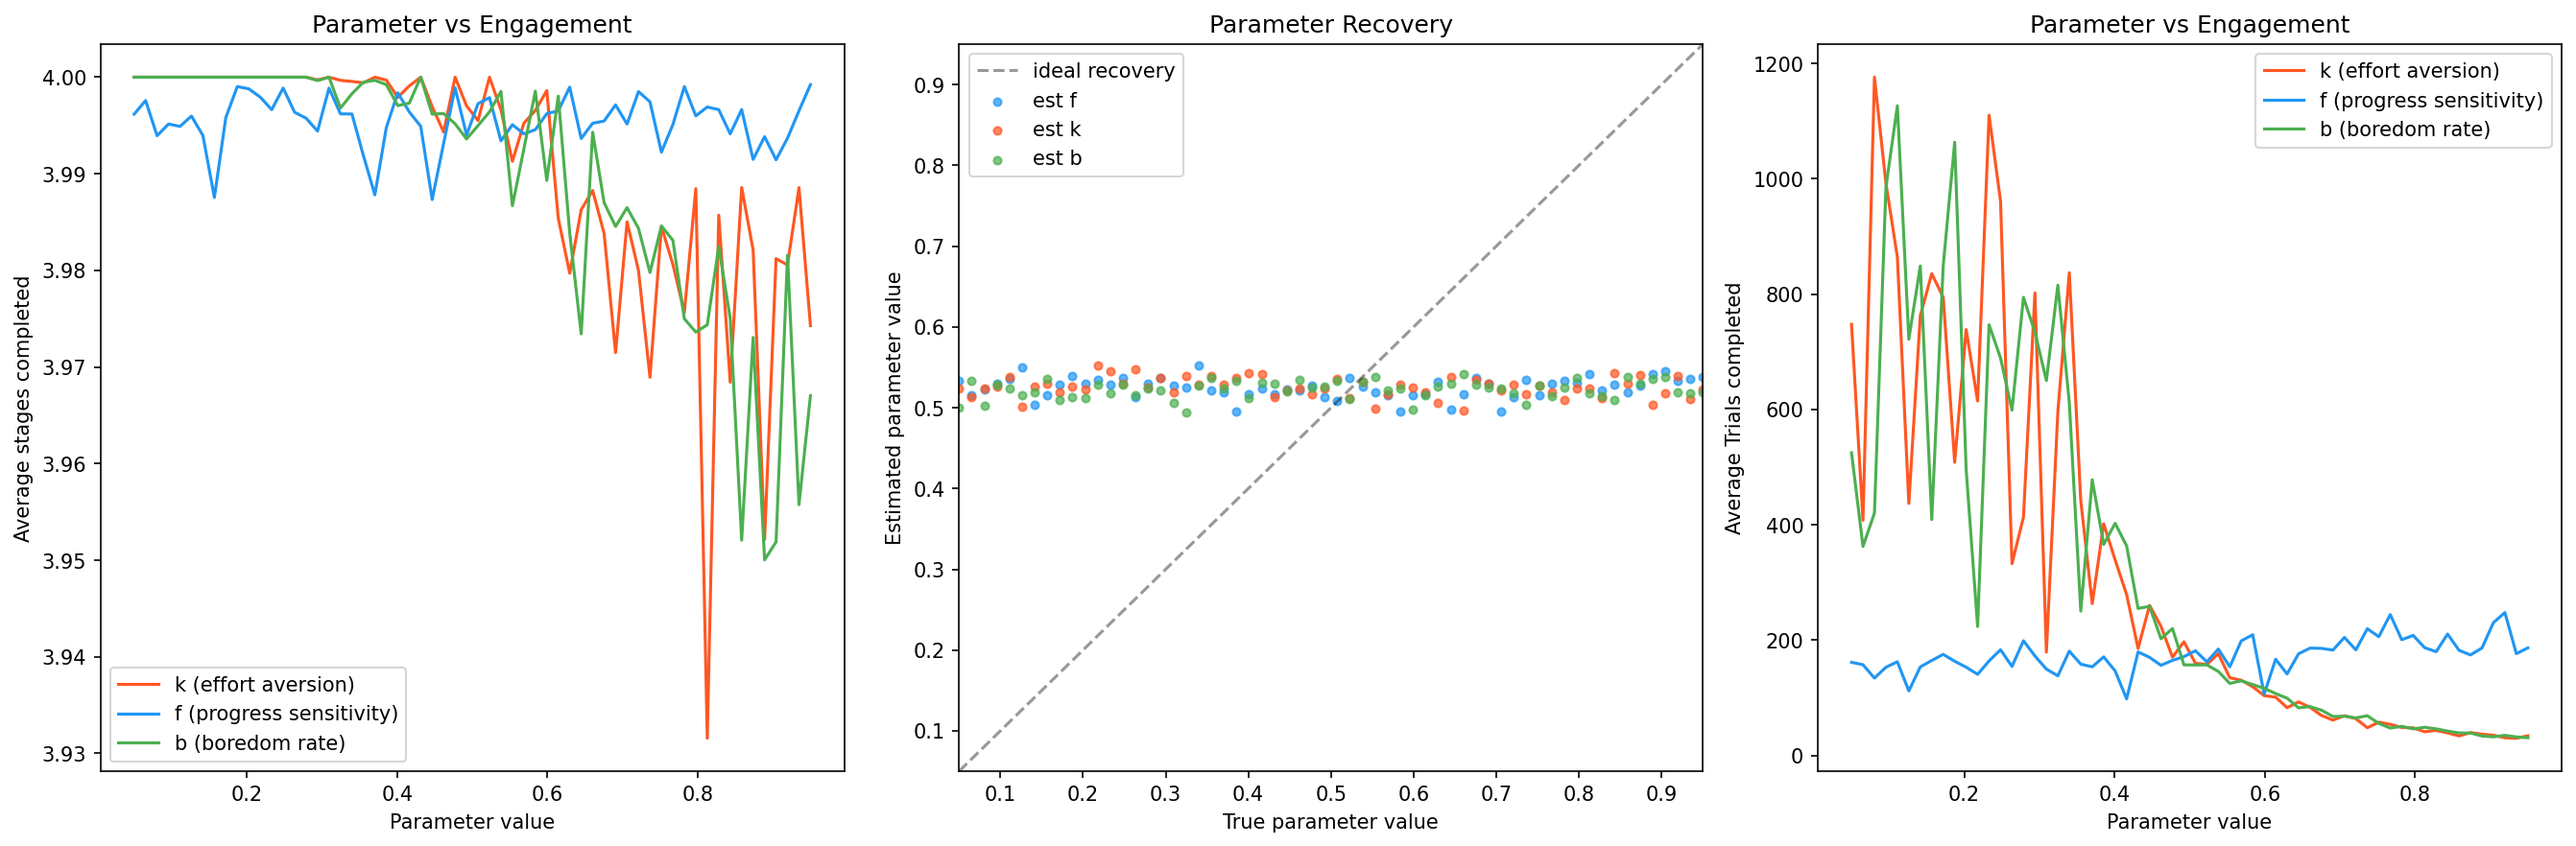
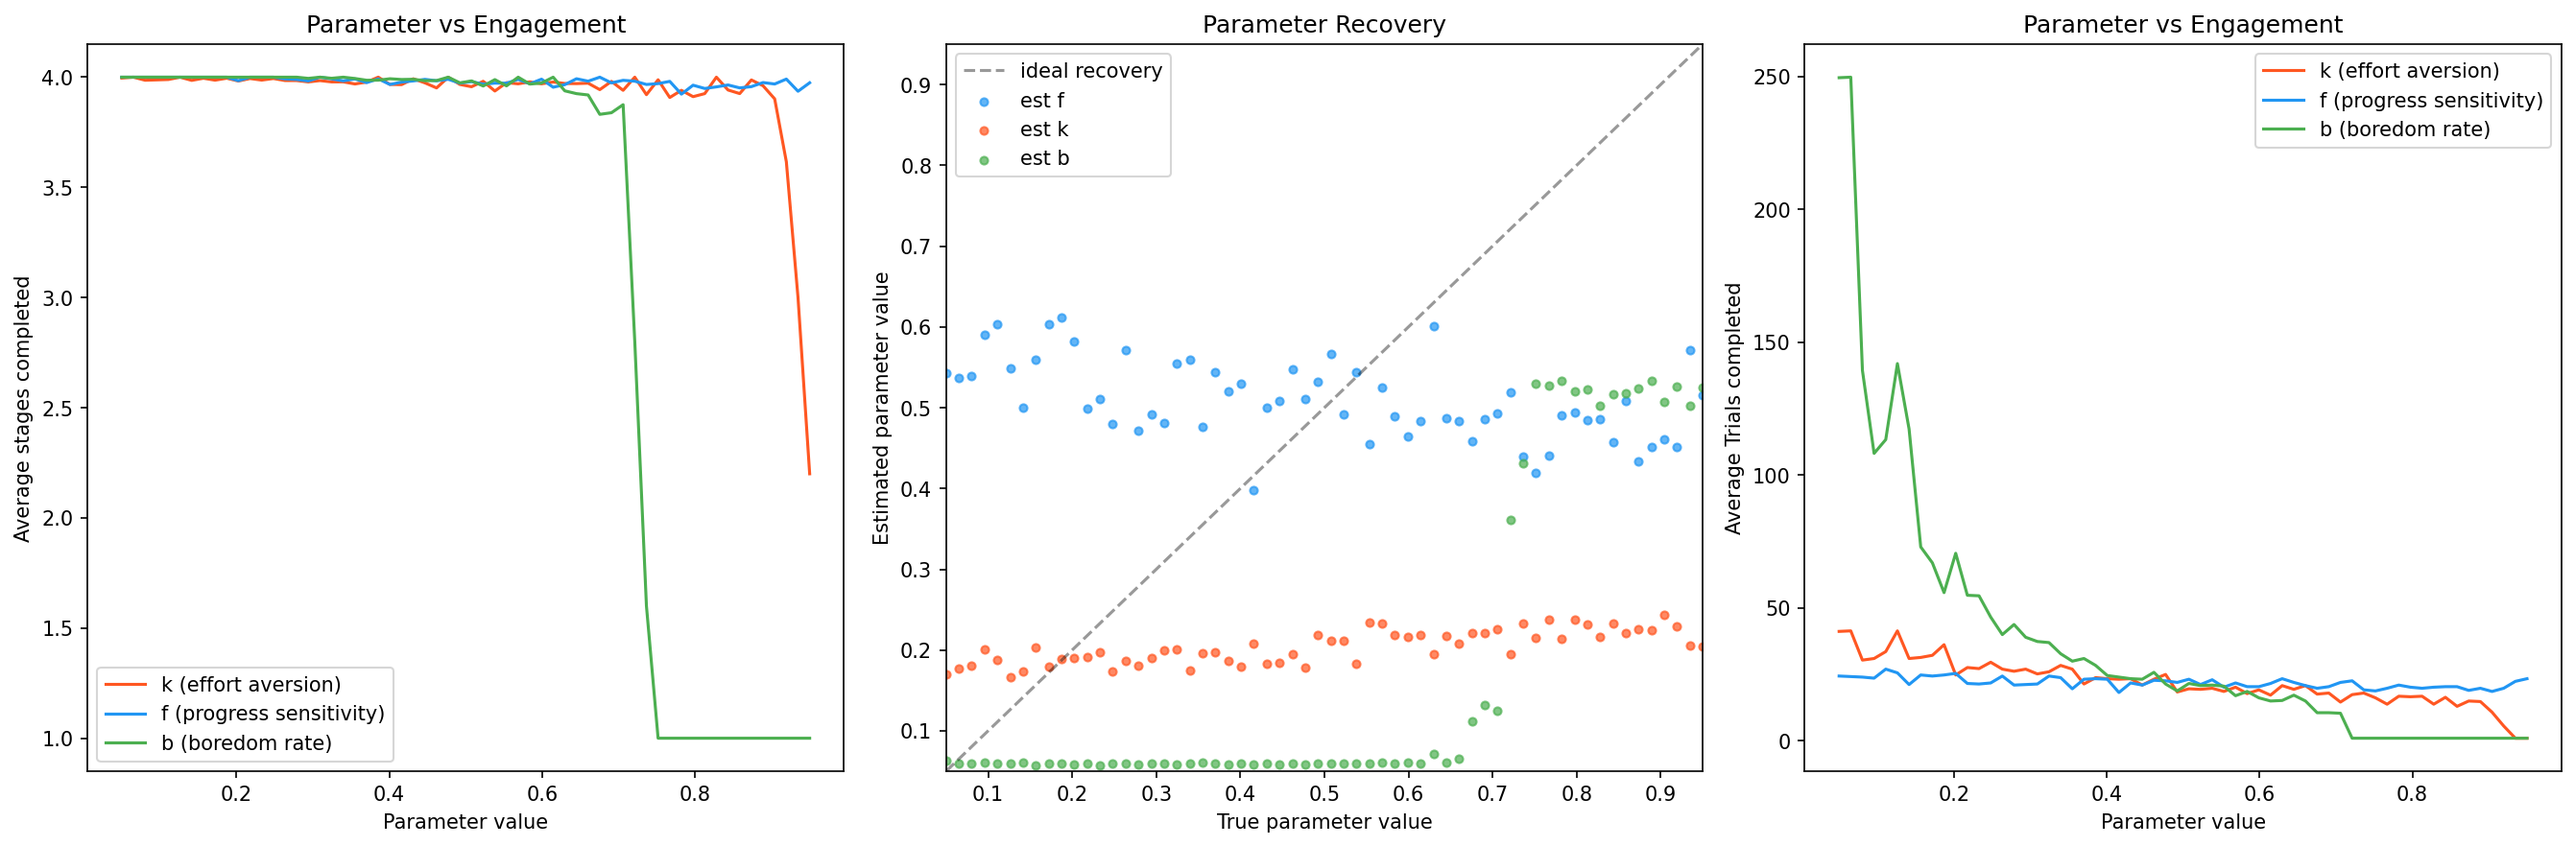
basic particle filter integration. Inference problem.

diff --git a/main.py b/main.py
@@ -5,8 +5,10 @@
 # Functions: 1: Particle Filter(no value arg), 2: Single DDM(Weiner process), 3: terminal stats for one run, 4: Multiple DDMs(no value arg)
 # main.py --function 2 --value 0.1,0.1,0.1
 
+import math
 import numpy as np
 import matplotlib.pyplot as plt
+from mpl_toolkits.mplot3d import Axes3D
 from dataclasses import asdict
 from temporal_difference_model import test_train
 import argparse
@@ -98,17 +100,29 @@ def plot_results(results):
     plt.savefig('engagement_by_params.png', dpi=150, bbox_inches='tight')
     plt.show()
 
-def plotweiner(f,k,b):
-    fixed, log, t = test_train(f,k,b, debug=False, extra=True)
-    x = [ep['dt'] for ep in log]
-    y = [ep['position'] for ep in log]
-    plt.plot(x,y,color='#FF5722')
+def plotweiner(f, k, b):
+    fixed, log, t = test_train(f, k, b, debug=False, extra = 1)
+    boundary = (1 - fixed.b) * 4
+
+    x_traj = [ep['dt'] for ep in log]
+    y_traj = [ep['position'] for ep in log]
     
-    plt.axhline(y=1/fixed.k, color="#000000", linestyle='-', linewidth=2,alpha=1)
-    plt.xlabel("time")
-    plt.ylabel("position")
-    params = {k: round(v, 2) for k, v in asdict(fixed).items()}
-    plt.title(f"scatter for {t} trials\nTrue Params: {params}")
+    avg_delta = np.mean([ep['delta'] for ep in log])
+    sigma_ddm = 0.1
+
+    params_str = {pk: round(pv, 2) for pk, pv in asdict(fixed).items()}
+    fig = plt.figure(figsize=(14, 6))
+    fig.suptitle(f"True Params: {params_str}  |  {t} trials")
+
+    ax1 = fig.add_subplot(1, 2, 1)
+    ax1.plot(x_traj, y_traj, color='#FF5722', linewidth=0.6, alpha=0.7)
+    ax1.axhline(y=boundary, color='k', linewidth=2, label='boundary)')
+    ax1.set_xlabel("time")
+    ax1.set_ylabel("position")
+    ax1.set_title("Wiener process")
+    ax1.legend()
+
+    plt.tight_layout()
     plt.show()
 def multiweiner(repeats=10):
     values = [0.1, 0.5, 0.9]
@@ -119,18 +133,17 @@ def multiweiner(repeats=10):
     _, axes = plt.subplots(1, 3, figsize=(18, 6))
 
     for ax, (param_label, run_fn) in zip(axes, [
-        ('f', lambda v: test_train(v, fixed, fixed, extra=True)),
-        ('k', lambda v: test_train(fixed, v, fixed, extra=True)),
-        ('b', lambda v: test_train(fixed, fixed, v, extra=True)),
+        ('f', lambda v: test_train(v, fixed, fixed, extra = 1)),
+        ('k', lambda v: test_train(fixed, v, fixed, extra = 1)),
+        ('b', lambda v: test_train(fixed, fixed, v, extra = 1)),
     ]):
         drawn_labels = set()
         for val, color in zip(values, colors):
             for _ in range(repeats):
                 fixed_params, log, _ = run_fn(val)
-                boundary = 1 / fixed_params.k
+                boundary = (1-fixed_params.b)*4
                 positions = [ep['position'] for ep in log]
 
-                # trim to first boundary crossing so every line ends at the boundary
                 cross = next((i for i, p in enumerate(positions) if p >= boundary), len(positions) - 1)
                 traj = positions[:cross + 1]
 
@@ -150,9 +163,23 @@ def multiweiner(repeats=10):
     
 
     plt.tight_layout()
-    plt.savefig('multiweiner_frozen_0.5.png', dpi=150, bbox_inches='tight')
+    plt.savefig('multiweiner_frozen_05.png', dpi=150, bbox_inches='tight')
     plt.show()
 
+def particlesovertime(f,k,b):
+    data = test_train(f,k,b, False, 2, 5)
+    colors = {'f': "#FF0000", 'k': "#2200FF", 'b': "#00FF4C"}
+    x = sorted(data.keys())
+
+    for key, color in colors.items():
+        y = [data[xi][key] for xi in x]
+        plt.plot(x, y, marker='o', label=key, color=color)
+
+    plt.xlabel('Trial Num')
+    plt.ylabel('Value')
+    plt.legend()
+    plt.title('')
+    plt.show()
 
 def run():
     f = k = b = choose = None
@@ -162,12 +189,12 @@ def run():
     if args.function == '4':
         multiweiner()
         quit()
-    if args.function != '1':
+    if args.function != '1' or '4':
         params = args.values if args.values else ''
         if params != "": f,k,b = map(float, params.split(","))
-        choose = str(int(args.function) - 1)
-        if choose == "1": plotweiner(f,k,b)
-        else: test_train(f,k,b, debug=True)
+        if args.function == "2": plotweiner(f,k,b)
+        if args.function == "3": test_train(f,k,b, debug=True)
+        if args.function == "5": particlesovertime(f,k,b)
     else:
         test_train(f,k,b, debug=True)
 run()

diff --git a/engagement_bayeserian.py b/engagement_bayeserian.py
@@ -2,26 +2,32 @@ import random
 import math
 import numpy as np
 from config import *
+from scipy.integrate import nsum    
 
 def ddm(f_val, k_val, b_val, delta, s, state: ModelState, prob = False):
-    boundary = 1/k_val
+    boundary = (1-b_val)*4
+    startpos = k_val * 2
+    
     dt = 1/stage_amt
     decay_rate = 0.3 
     if state.t > 1:
         delta = state.stage_log[(state.t-1)*stage_amt-1]['delta'] * math.exp(-decay_rate * s)
     
     dW = random.gauss() * math.sqrt(dt) # noise * tiny change in time
-    sigma = .1
+    sigma = .01
     
-    boredom = b_val * math.log1p(state.t)
-    reward_signal = f_val * delta 
+    fatigue = .3 * math.log1p(state.t)
+    reward_signal = 10*(f_val * delta)
     
-    drift_rate = boredom - reward_signal
+    
+    drift_rate = fatigue - reward_signal
     time = state.t + dt*s
-    try: position = state.stage_log[state.t+s -1]['position'] + drift_rate*dt + sigma*dW
-    except: position = 0 + drift_rate*dt + sigma*dW
+    if s > 0 and len(state.stage_log) > 0:
+        position = state.stage_log[-1]['position'] + drift_rate*dt + sigma*dW
+    else:
+        position = startpos + drift_rate*dt + sigma*dW
     if prob:
-        return boundary, sigma, drift_rate
+        return boundary, sigma, drift_rate, startpos
     elif position < boundary:
         return time, False, position
     elif position >= boundary:
@@ -29,18 +35,31 @@ def ddm(f_val, k_val, b_val, delta, s, state: ModelState, prob = False):
         return time, True, position
     
 def formula(f_val, k_val, b_val, s, delta, state: ModelState):
-    startpos = 0
-    boundary, sigma, drift_rate = ddm(f_val, k_val, b_val, delta, s, state, prob = True)
-    prob = (boundary - startpos)/(sigma*(math.sqrt(2*math.pi*state.t**3)))*math.exp(-(boundary-startpos-drift_rate*state.t)**2/2*(sigma**2)*state.t)
+    time = state.t + (s / stage_amt)
+    boundary, sigma, drift, startpos = ddm(f_val, k_val, b_val, delta, s, state, prob=True)
 
-    
+    mask = time < (0.5 * boundary**2) / (np.pi**2)
 
-def bayesian_particle_update(engaged, delta, v, state: ModelState):
+    exponent = -(drift * startpos * boundary) - (drift**2 * time) / 2
+    K = 20
+    k = np.arange(-K, K + 1).reshape(-1, 1)
+    small_terms = (2 * boundary * k + startpos) * np.exp(-((2 * boundary * k + startpos)**2) / (2 * time))
+    small_summ = small_terms.sum(axis=0)
+    small_result = (boundary / np.sqrt(2 * np.pi * time**3)) * np.exp(exponent) * small_summ
 
-    scores = formula(state.particle_matrix[0], state.particle_matrix[1], state.particle_matrix[2], delta, state)
+    k = np.arange(1, K + 1).reshape(-1, 1)
+    large_terms = k * np.sin(k * np.pi * startpos) * np.exp(-(k**2 * np.pi**2 * time) / (2 * boundary**2))
+    large_summ = large_terms.sum(axis=0)
+    large_result = (np.pi / boundary**2) * np.exp(exponent) * large_summ
 
-    probs: np.ndarray = sigmoid(scores)
-    likelihoods = probs if engaged else (1 - probs)
+    return np.where(mask, small_result, large_result)
+        
+
+def bayesian_particle_update(disengaged, delta, s, state: ModelState):
+
+    probs = formula(state.particle_matrix[0], state.particle_matrix[1], state.particle_matrix[2], s, delta, state)
+
+    likelihoods = probs if not disengaged else (1 - probs)
 
     new_weights = state.weights * np.maximum(likelihoods, 1e-8)
     total = new_weights.sum()

diff --git a/temporal_difference_model.py b/temporal_difference_model.py
@@ -20,10 +20,9 @@ def value_of_stage(state: ModelState, s, pers_param):
 
     delta = r + g * V_next - V_s
     state.theta = state.theta + a * delta * phi(s)
-    # engagment_prob = sigmoid(stage_engagement)
     dt, engaged_observation, position = ddm( pers_param.f, pers_param.k, pers_param.b, delta, s, state) 
     stage_engagement = formula( pers_param.f, pers_param.k, pers_param.b, delta, s, state) 
-    # state.weights = bayesian_particle_update(engaged_observation, delta, V_s, state)
+    state.weights = bayesian_particle_update(engaged_observation, delta, s, state)
     resample_if_needed(state)
 
     state.stage_log.append({
@@ -40,12 +39,12 @@ def value_of_stage(state: ModelState, s, pers_param):
     
     learning_gain = max(0,delta) * (1.0 - state.skill)  # skill grows with practice but saturates. This might be changed based on what makes sense for skill improvment
     state.skill += (min(learning_gain / stage_amt, 1))
-    return delta, engaged_observation, stage_engagement
+    return delta, engaged_observation
 
 def simulate(state: ModelState, pers_param):
     stages_completed = 0
     for s in range(stage_amt):
-        state.rpe[s], disengaged, tot_stage_engagement = value_of_stage(state, s, pers_param)
+        state.rpe[s], disengaged = value_of_stage(state, s, pers_param)
         stages_completed += 1
         if disengaged: break
     state.episode_log.append({
@@ -58,7 +57,7 @@ def simulate(state: ModelState, pers_param):
     })
     return True if not disengaged else False
 
-def train(state: ModelState, pers_param, debug):
+def train(state: ModelState, pers_param, debug, i):
     low_rpe_streak = 0
     while True:
         engaged = simulate(state, pers_param)
@@ -81,7 +80,8 @@ def train(state: ModelState, pers_param, debug):
         state.t += 1
         
         
-def test_train(true_f = None, true_k = None, true_b = None, debug = False, extra = False):
+def test_train(true_f = None, true_k = None, true_b = None, debug = False, extra = 0, repeat = 1):
+    repeats = {}
     if true_f is None: true_f = random.uniform(0.05, 1.0)
     if true_k is None: true_k = random.uniform(0.05, 1.0)
     if true_b is None: true_b = random.uniform(0.05, 1.0)
@@ -99,8 +99,11 @@ def test_train(true_f = None, true_k = None, true_b = None, debug = False, extra
         skill = .1,
     )
 
-    train(state, fixed, debug)
+    for i in range(repeat):
+        train(state, fixed, debug, i)
+        repeats[i] = {'f' : np.dot(state.weights, state.particle_matrix[0]), 'k' : np.dot(state.weights, state.particle_matrix[1]), 'b' : np.dot(state.weights, state.particle_matrix[2])}
     
+        
     avg_stages = sum(ep['Stages completed'] for ep in state.episode_log) / len(state.episode_log) if len(state.episode_log) != 0 else 0
     
     if debug == True:
@@ -123,9 +126,11 @@ def test_train(true_f = None, true_k = None, true_b = None, debug = False, extra
     if not extra:
         return {'true_f': true_f, 'true_k': true_k, 'true_b': true_b, 'avg_stages': avg_stages,
                 'est_f': est_f, 'est_k': est_k, 'est_b': est_b, 'trials': state.t}
-    else:
+    elif extra == 1:
         log = state.stage_log
         return fixed, log, state.t
+    elif extra == 2:
+        return repeats
 
 
 

diff --git a/config.py b/config.py
@@ -14,12 +14,15 @@ param_values = {
     'd' : diff,
 } 
 
+
+
 @dataclass
 class UserParams:
     f: float  # Sensitivity to learning progress  
     k: float  # Effort aversion  
     b: float  # Boredom rate 
-
+    
+    
 @dataclass
 class ModelState:
     theta: np.ndarray
@@ -47,9 +50,5 @@ def phi(s: int):
     return np.array([1.0, d, s_norm])
 
 def V(theta, s):
-
     v = float((theta @ phi(s)))
     return v
-
-def smoothstep(x):
-    return (3*x**2) - (2*x**3)
